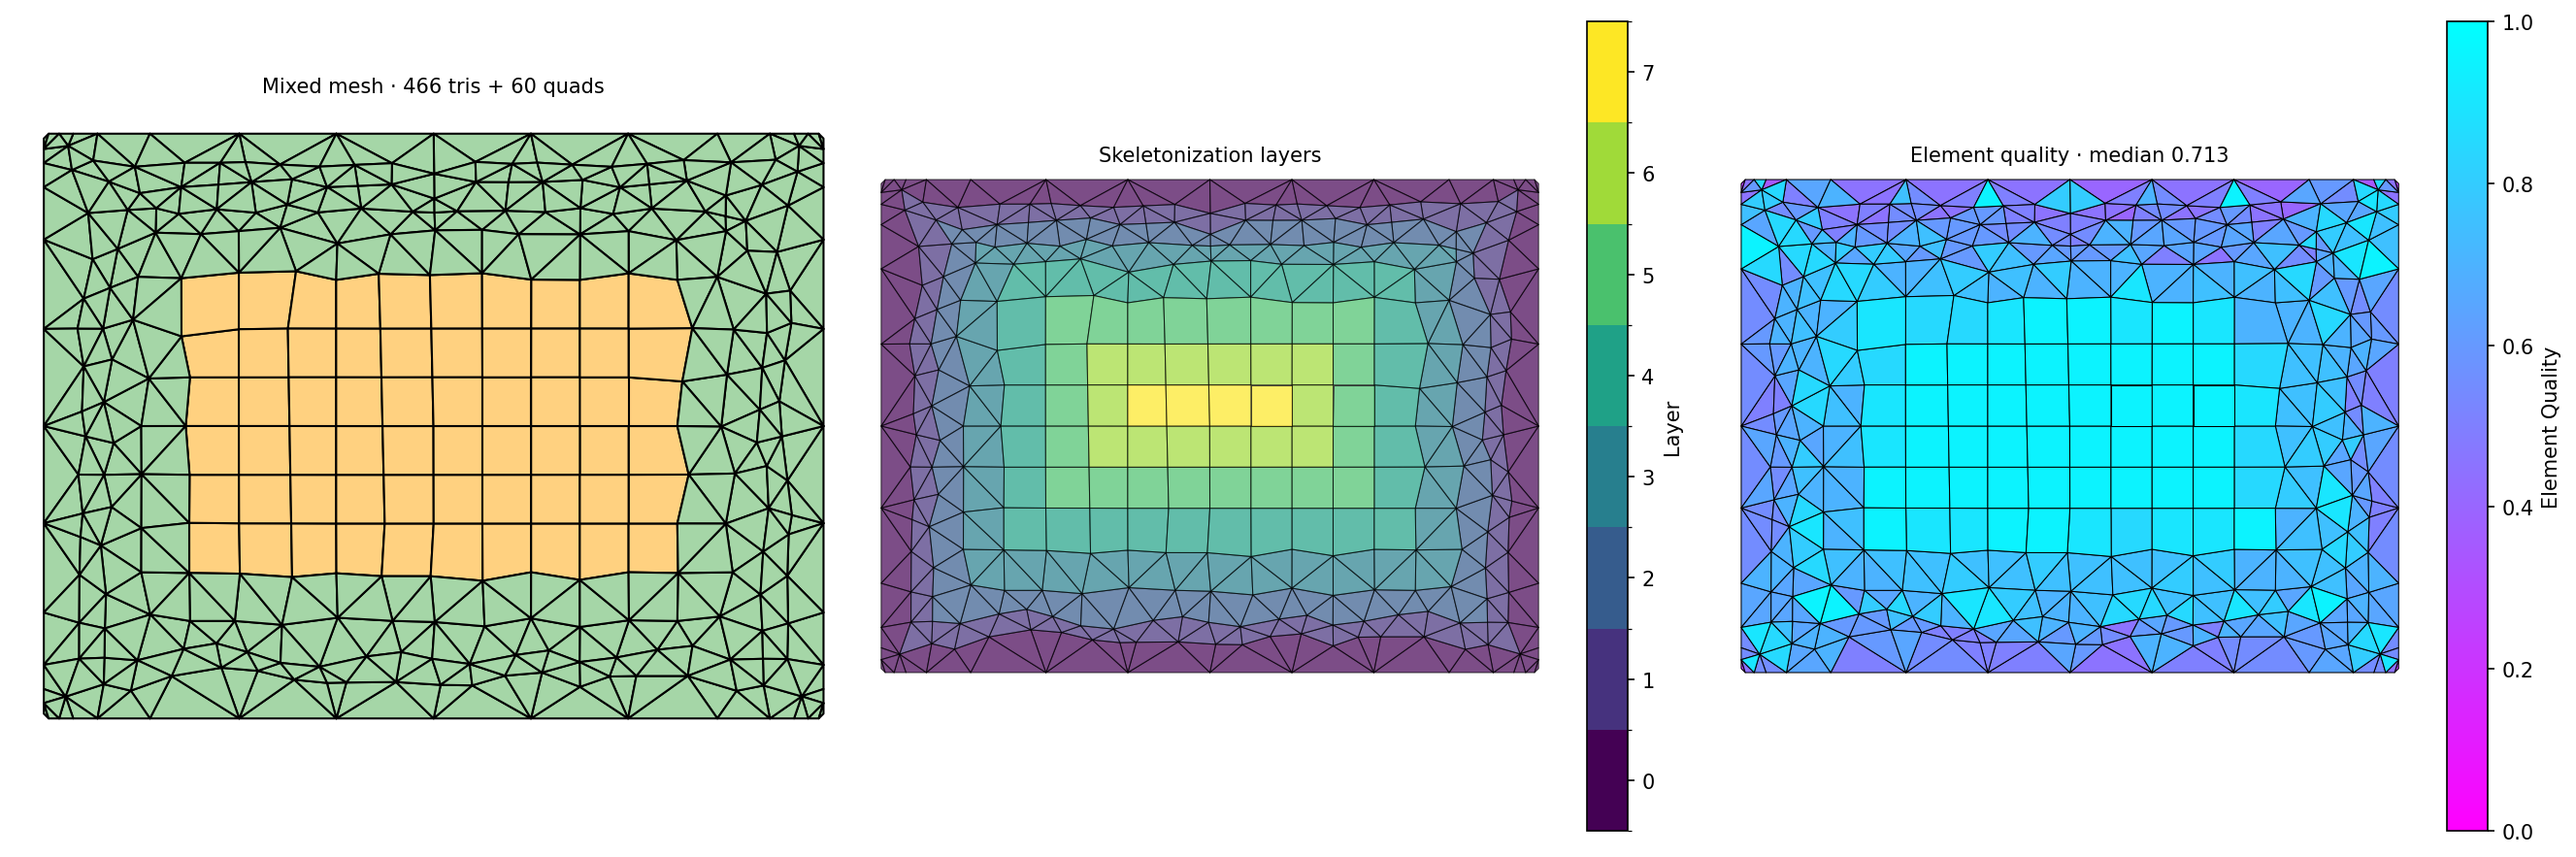
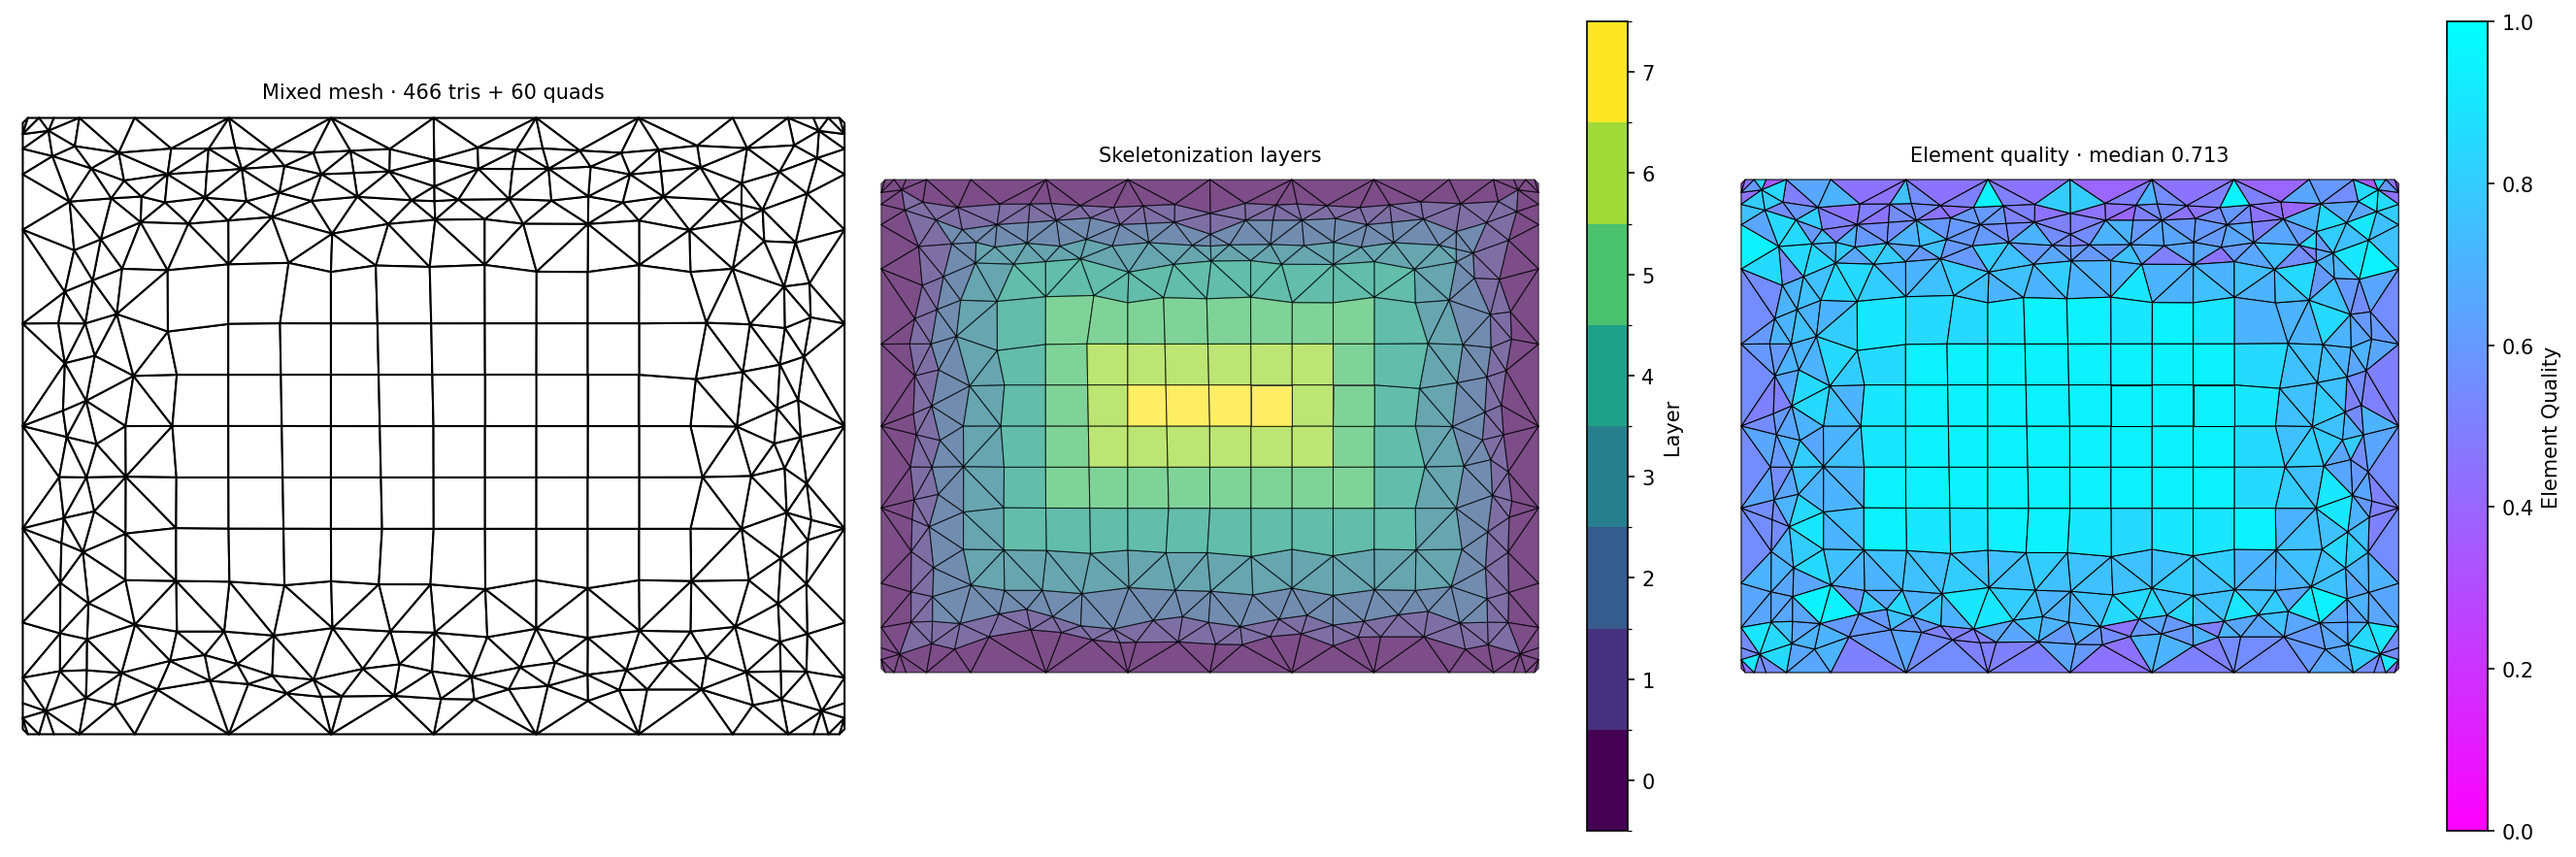
style: white faces + black edges for wireframe in 3-panel showcase
Left panel (wireframe) now shows white element faces with black edges
instead of colored tris/quads. Improves clarity for layer/quality
comparison in middle and right panels.

Changed region(s): [[0.0, 0.0917, 0.3399, 0.8562]]

diff --git a/scripts/generate_mixed_truss_demo.py b/scripts/generate_mixed_truss_demo.py
@@ -447,10 +447,10 @@ def main(out_path: Path | None = None) -> Path:
     # 3-panel showcase: wireframe | layers | quality
     showcase_path = out_path.parent / "mixed_mesh_showcase.png"
     fig3, axes3 = plt.subplots(1, 3, figsize=(18, 6), facecolor="white")
-    _plot_mixed(
-        axes3[0], mesh_smooth,
-        f"Mixed mesh · {n_tris_total} tris + {len(kept_quads)} quads",
-    )
+    mesh_smooth.plot(ax=axes3[0], elem_color="white", edge_color="k", linewidth=1.0)
+    axes3[0].set_title(f"Mixed mesh · {n_tris_total} tris + {len(kept_quads)} quads", fontsize=10)
+    axes3[0].set_aspect("equal")
+    axes3[0].axis("off")
     mesh_smooth.plot_layer(ax=axes3[1])
     axes3[1].set_title("Skeletonization layers", fontsize=10)
     axes3[1].set_aspect("equal")
